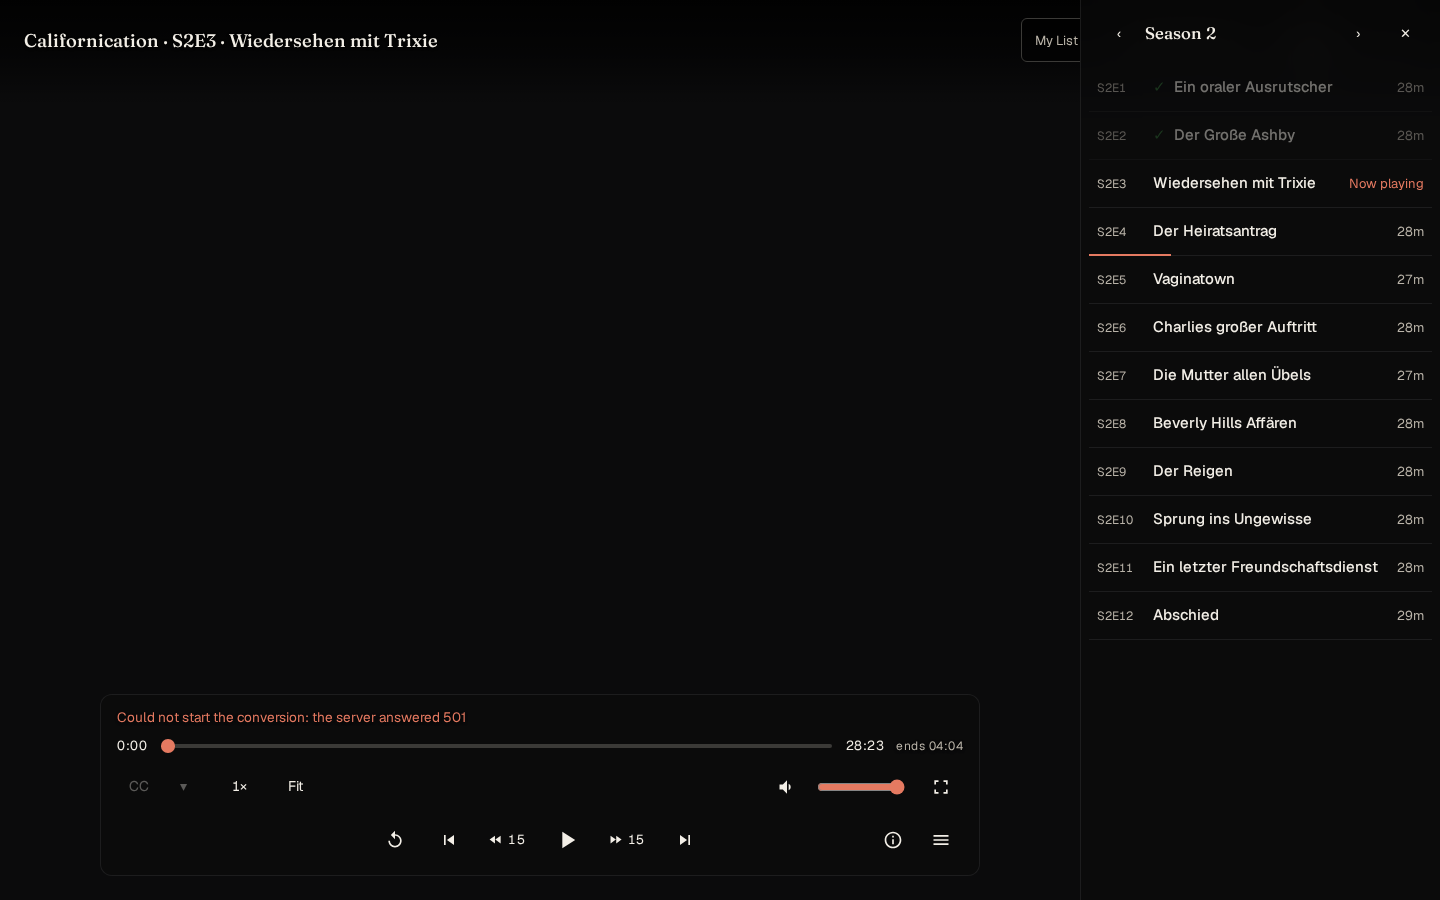
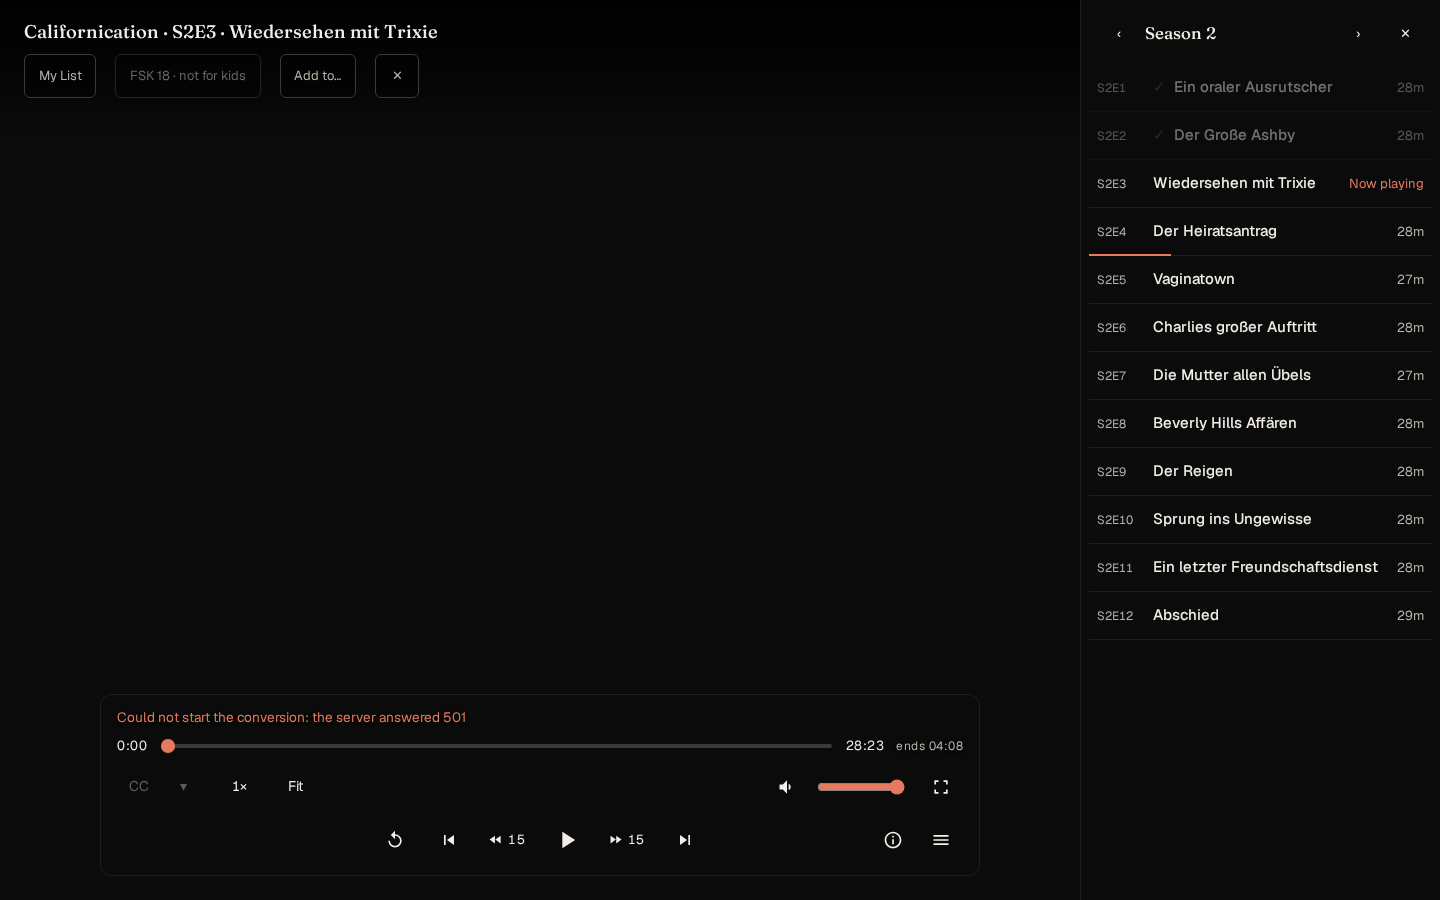
docs(player): record the top bar clearing the episode sidebar

Changed region(s): [[0.0, 0.0311, 0.3125, 0.0933], [0.7188, 0.0311, 0.75, 0.0622]]

diff --git a/plans/261005-0157-player-control-card/reports/phase-02-implementation-report.md b/plans/261005-0157-player-control-card/reports/phase-02-implementation-report.md
@@ -29,3 +29,10 @@ Status: DONE (with deviations). Fast-forwarded to main 5fe377e0 first. No push, 
 ## Concerns
 - While the sidebar is open it covers the right of the top bar (My List, Kids, the player's own close). The sidebar has its own close, Esc and Back close it; the top bar is not shifted. Cheap to fix later by starting the sidebar below the bar, but the bar's height varies at phone width.
 - Preview cannot play media, so the HUD hold while the sidebar is open is test-covered only.
+
+## Follow-up: top bar clears the open sidebar (lead ruling)
+Commit 51727868. At 768px and above, `dialog.sidebar-open .hud-top` gets `right: 360px`, wraps, and the title takes its own row (same as the phone layout), so My List, Kids, Add to, Notes and the player's close stay visible and clickable beside the sidebar. Below 768px the sidebar still covers it.
+- Test (red first): `web/test/episode-sidebar-clearance.test.ts` reads `player-card.css` and asserts the 768px block offsets both `.card-dock` and `.hud-top` by the sidebar's width.
+- Two selector lists in the sidebar CSS were put on one line each to stay at the 200-line limit.
+- `episode-sidebar-1440x900.png` re-shot in the preview: My List, FSK badge, Add to and the close are fully visible left of the sidebar. 3084 pass, typecheck and lint clean.
+- The earlier concern is resolved. Notes was not on this title, so its button was not seen in the shot; it sits in the same bar.
